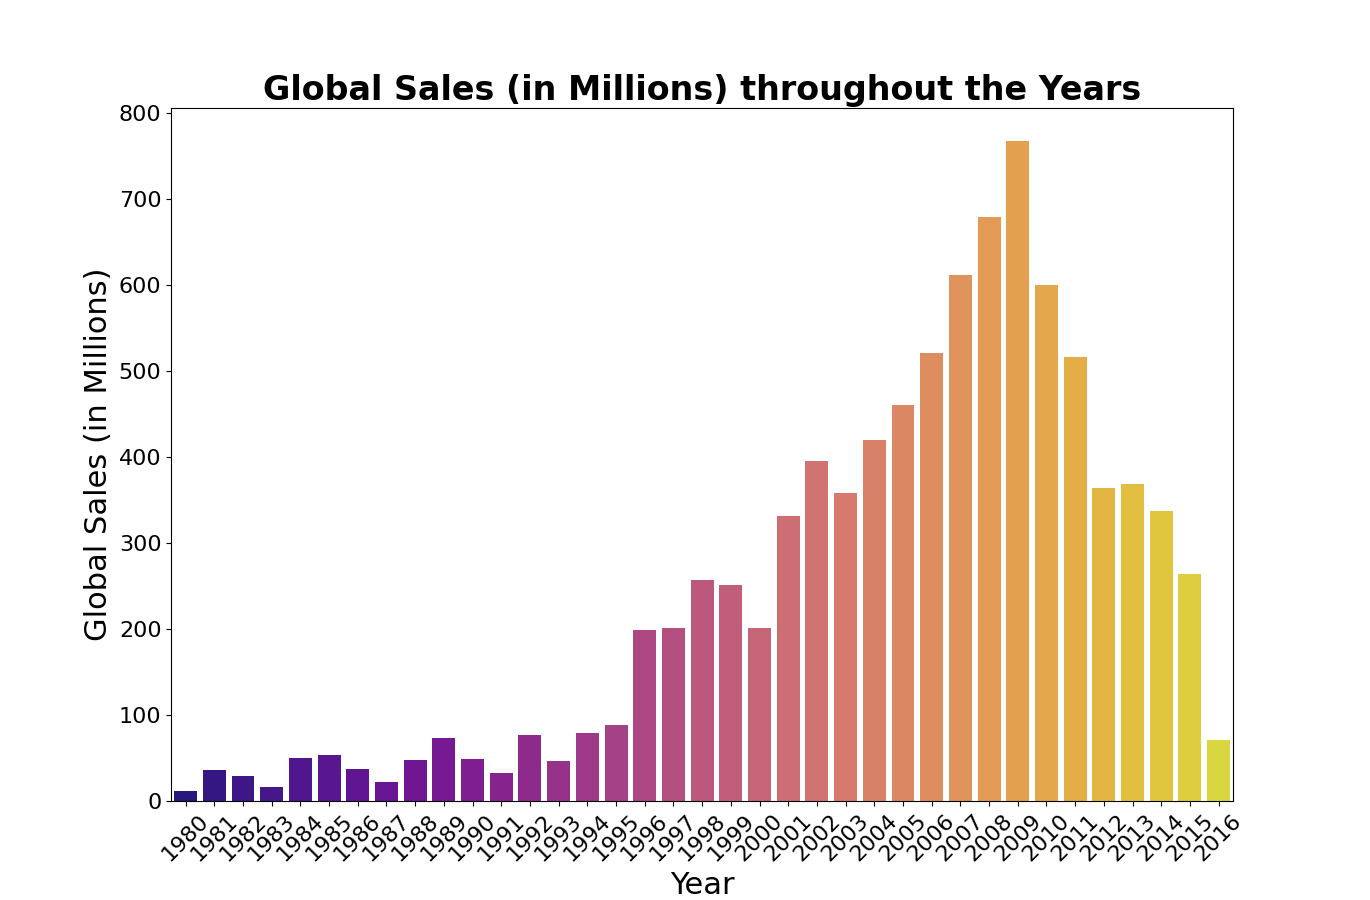
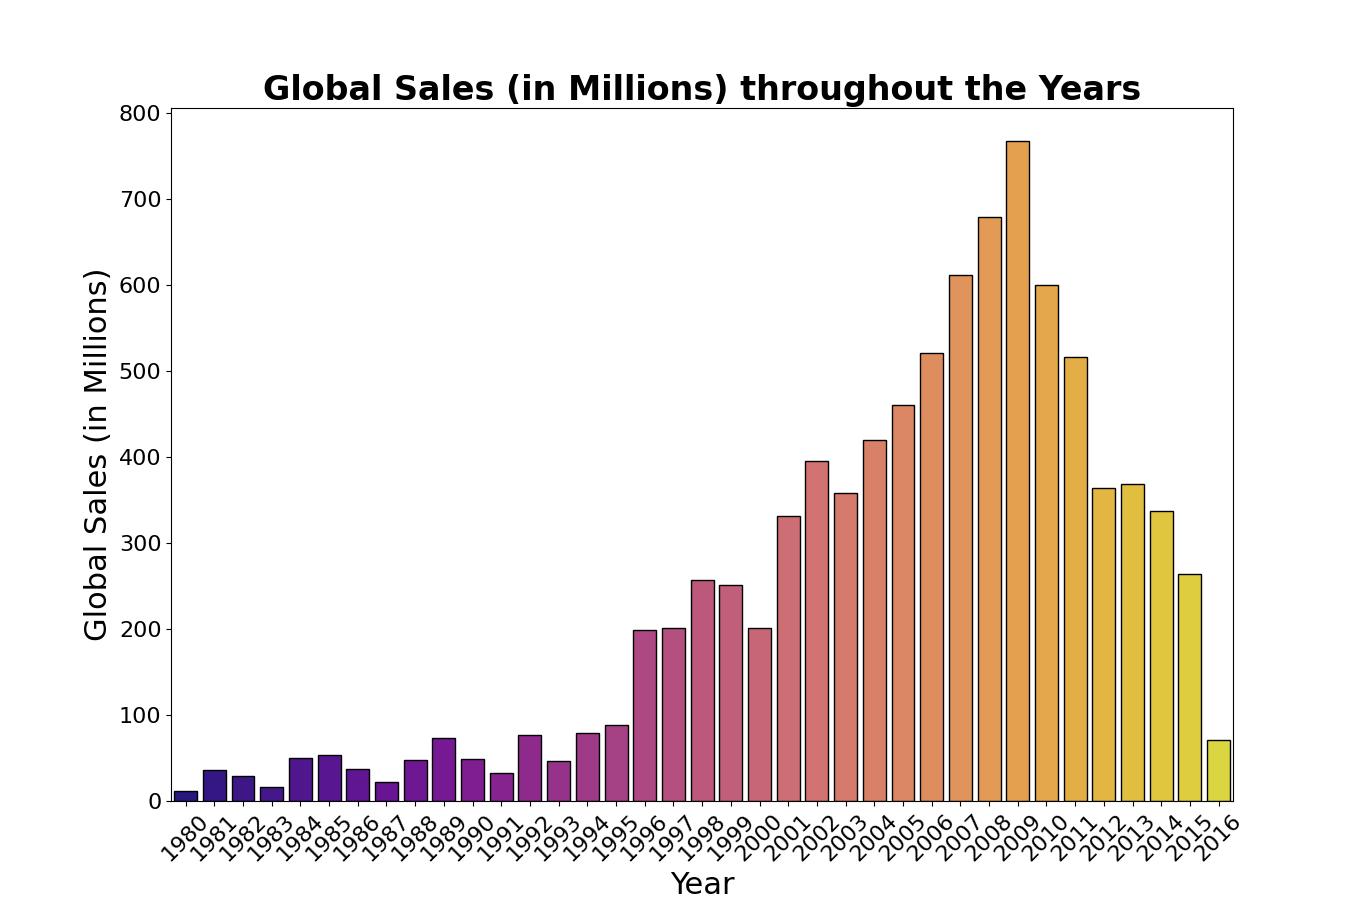
Make graph nicer

Changed region(s): [[0.1226, 0.2178, 0.8891, 0.9022], [0.7358, 0.1556, 0.7664, 0.1867]]

diff --git a/EDA.py b/EDA.py
@@ -14,14 +14,14 @@ def eda(df):
 
     plt.figure(figsize=(13.7, 9))
 
-    sns.barplot(x='variable', y='value', data=pd.melt(box_plot_df), palette='plasma')
+    sns.barplot(x='variable', y='value', data=pd.melt(box_plot_df), palette='plasma', ec='Black')
 
     plt.ylabel('Global Sales (in Millions)', fontsize=22)
     plt.xlabel('Year', fontsize=22)
     plt.title('Global Sales (in Millions) throughout the Years', fontsize=24, fontweight='bold')
     plt.xticks(rotation=45, fontsize=16)
     plt.yticks(fontsize=16)
-    #plt.savefig('Charts/Yearly_Global_Sales.png')
+    plt.savefig('Charts/Yearly_Global_Sales.png')
     plt.show()
 
 
